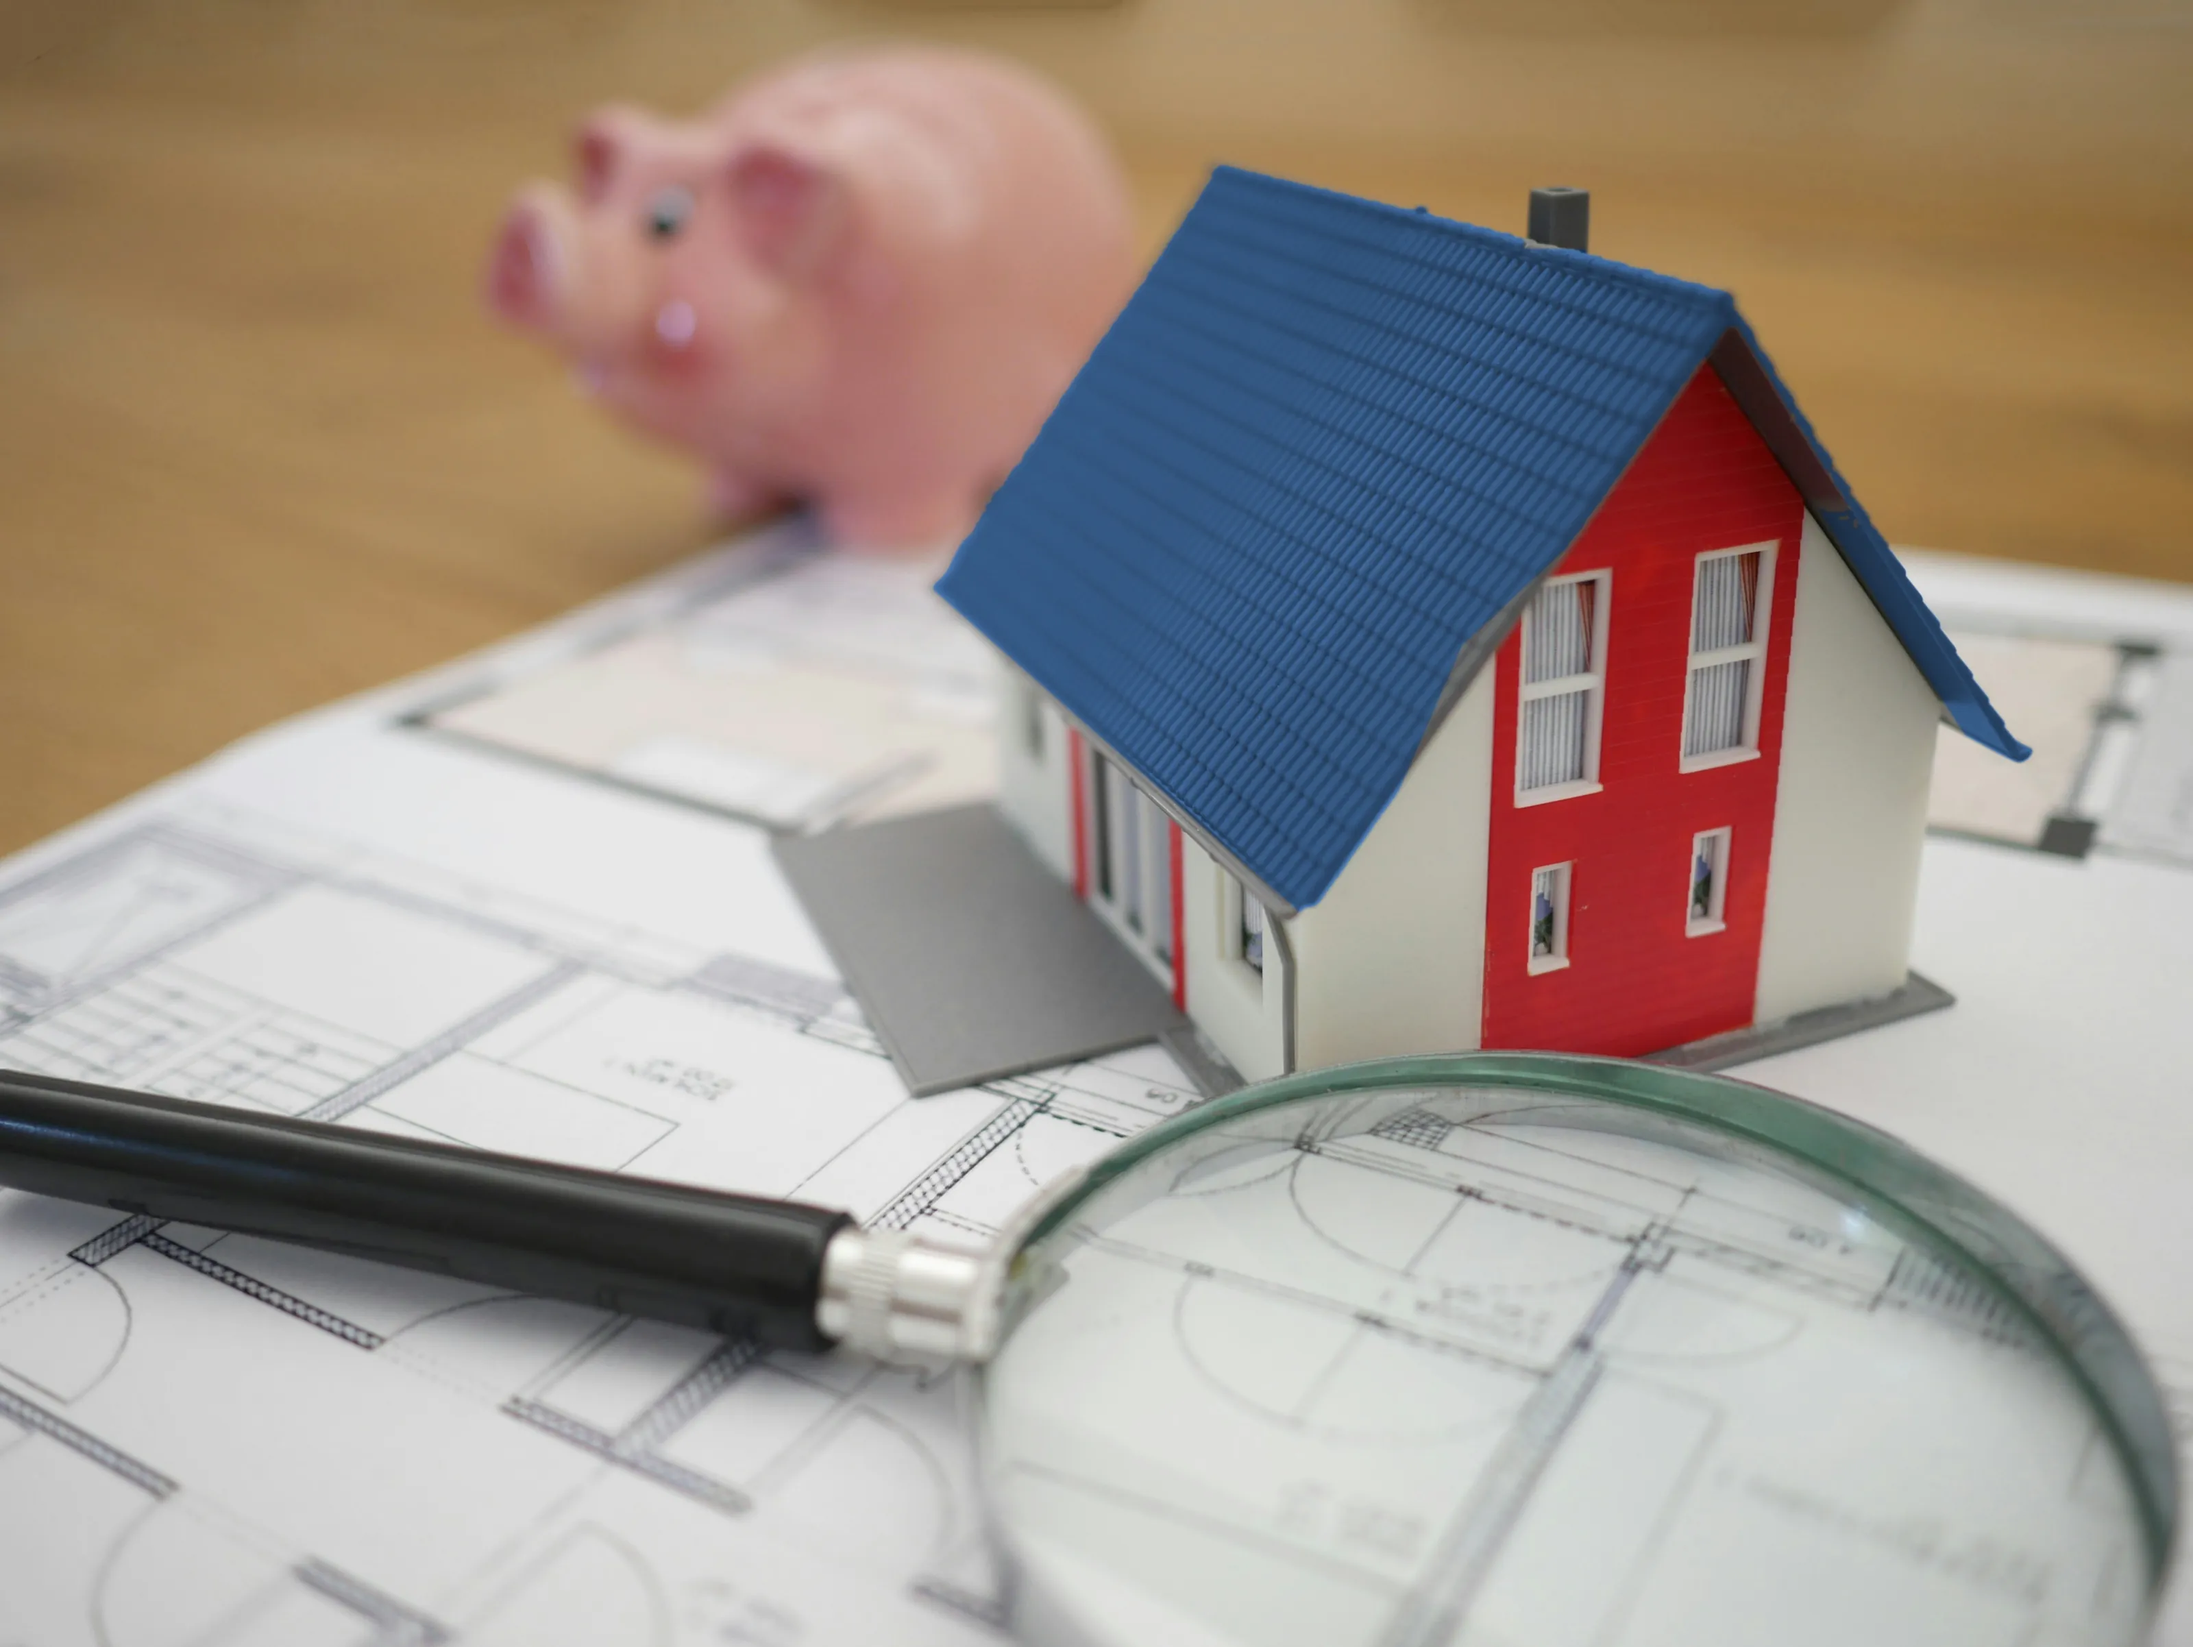
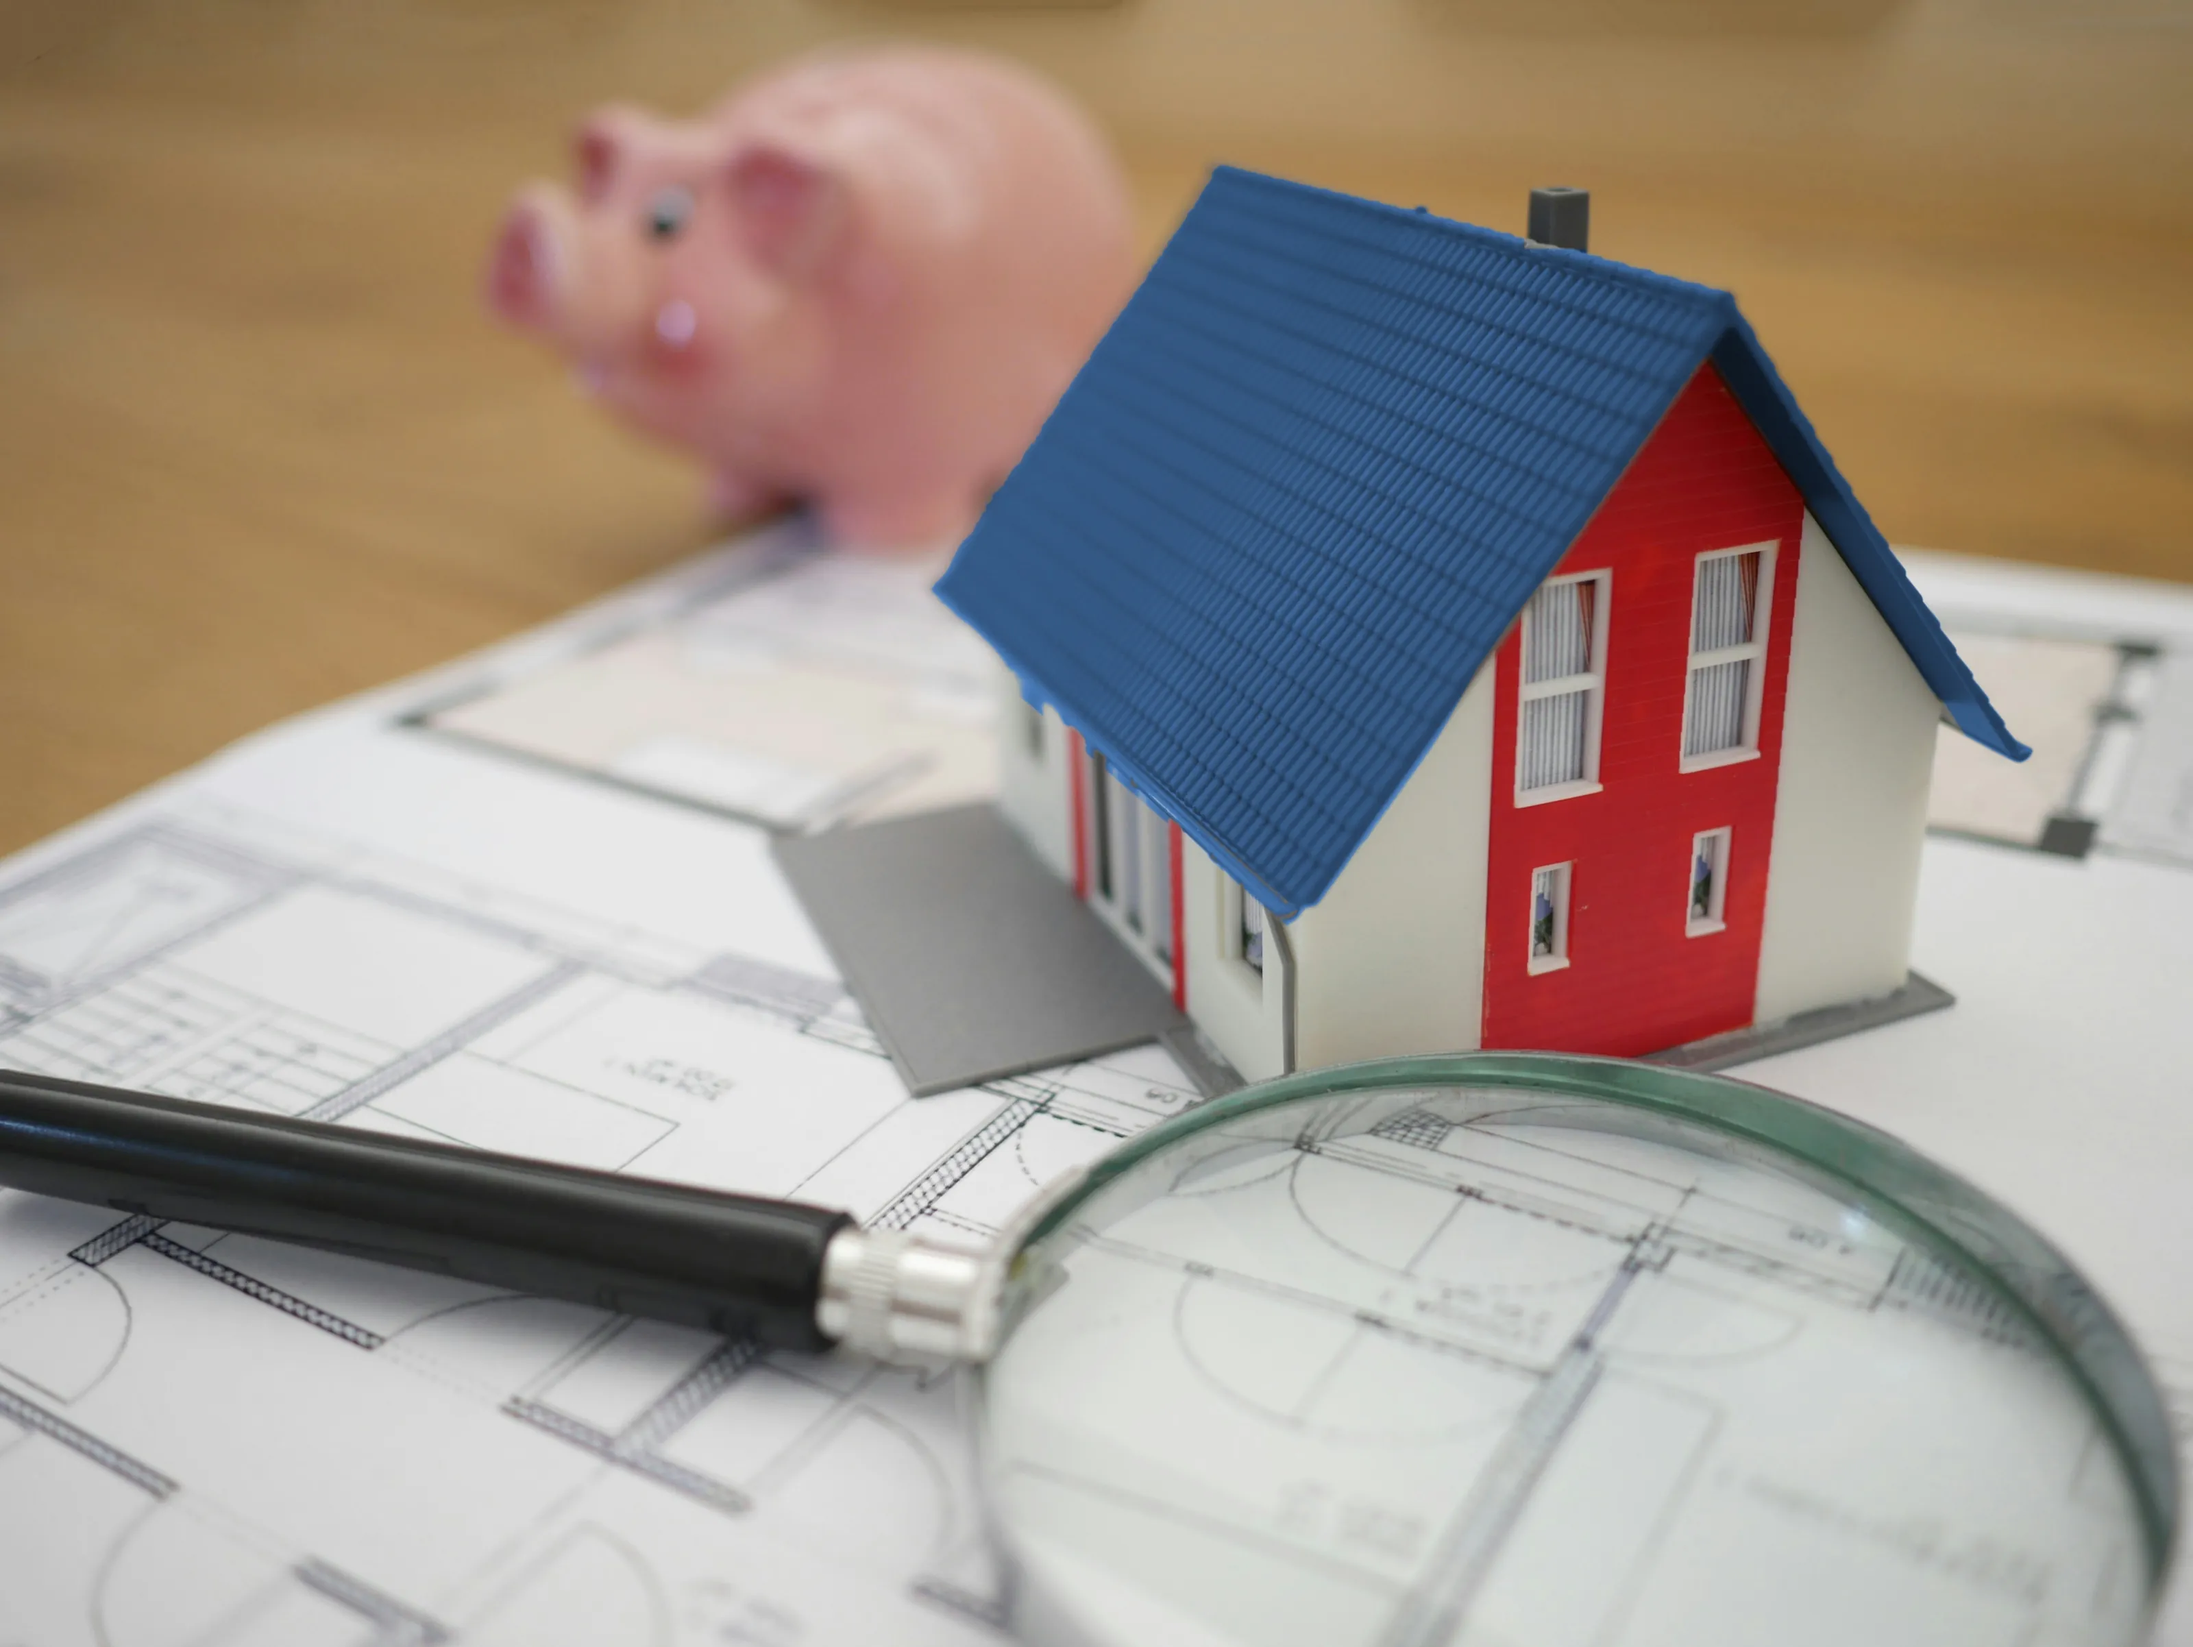
Baufinanzierung: Dach im Titelbild komplett blau (Ortgang, Unterseite, Traufkante)
Claude-Session: https://claude.ai/code/session_01J9JEsdcecjFsMGsC3GDkAA

diff --git a/src/content/images.ts b/src/content/images.ts
@@ -27,7 +27,7 @@ export const images: Record<string, { alt: string; pos?: string }> = {
 };
 
 /** Versionsnummer der Bilder: bei jedem Bildtausch erhöhen, damit Browser keine alte Fassung aus dem Cache zeigen. */
-export const IMG_V = "7";
+export const IMG_V = "8";
 export const img = (file: string) => `/img/${file}?v=${IMG_V}`;
 
 /** Bildangabe aus dem Bearbeitungsbereich normalisieren: "/img/rechner.webp" → Bildschlüssel "rechner" (mit Handy- und Kleinfassungen). */
